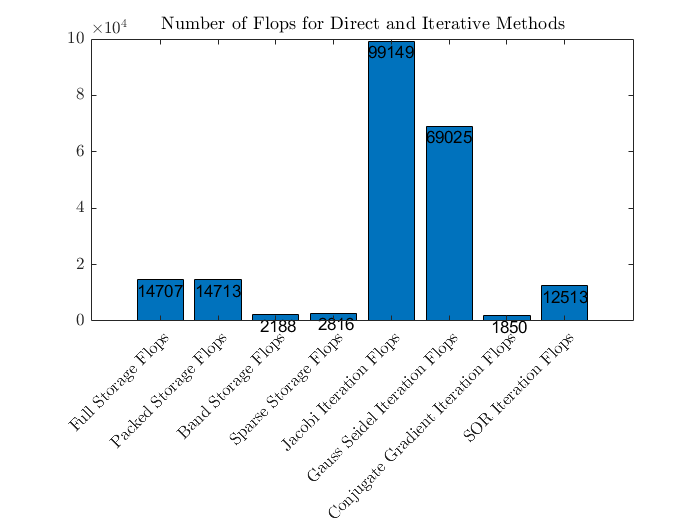
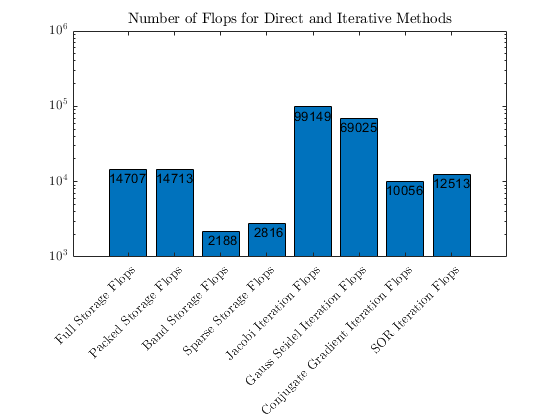
Fixed CG flops

diff --git a/MATLAB/conjugate_gradient_CSR.m b/MATLAB/conjugate_gradient_CSR.m
@@ -1,6 +1,6 @@
 function [x, converged, k, res_total, flops] = conjugate_gradient_CSR(rb, c, v, b, x0, tol, maxiters, current_flops)
 %% Initalise
-n = length(rb) - 1;
+n = length(rb)-1;
 x = x0;
 
 %flop count
@@ -9,29 +9,39 @@ flops = current_flops;
 [A_x, flops] = multiAx(v, rb, c, x, flops);
 
 r = b - A_x;
+flops = flops + n; %Vector-vector is n flops
 d = r;
 rTr = r' * r;
+flops = flops + 2*n-1; %vector*vector is 2n-1 flops (n flops from multiplications, n-1 flops from additions)
 beta = 1 / rTr;
+flops = flops +1; %one division one flop
 k = 0;
 normb = norm(b);
 res = norm(b - A_x) / normb;
+flops = flops + n + 1; %vector subtration n flops, division 1 flop
 res_total = res;
 
 while res > tol && k < maxiters
     [Ad, flops] = multiAx(v, rb, c, d, flops);
     alpha = rTr / (d' * Ad);
+    flops = flops + 2*n-1;
     x = x + alpha * d;
+    flops = flops + 2*n;
     r = r - alpha * Ad;
+    flops = flops + 2*n;
     beta = 1/rTr;
+    flops = flops + 1;
     rTr = r'*r;
+    flops = flops + 2*n-1;
     beta = beta * rTr;
+    flops = flops + 1;
     d = r + beta * d;
+    flops = flops + 2*n;
     k = k + 1;
-    flops = flops + 11;
     [A_x, flops] = multiAx(v, rb, c, x, flops);
     res = norm(b - A_x) / normb;
+    flops = flops + n + 1;
     res_total(k + 1) = res;
-    flops = flops + 2;
 end
 
 %% Check whether we converged
